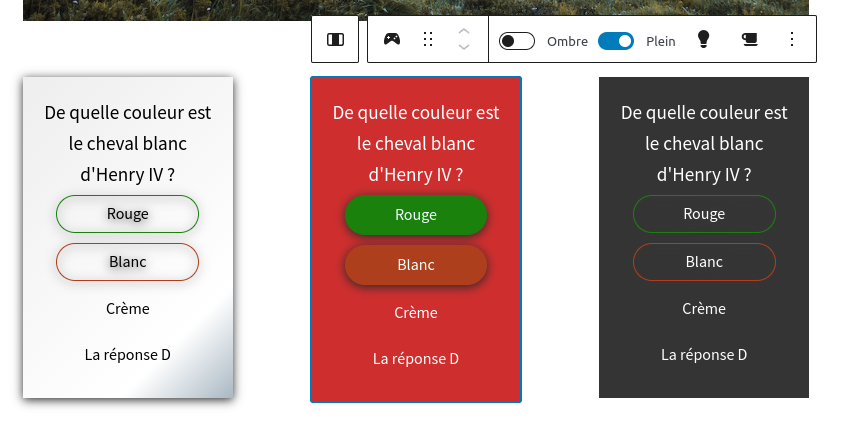
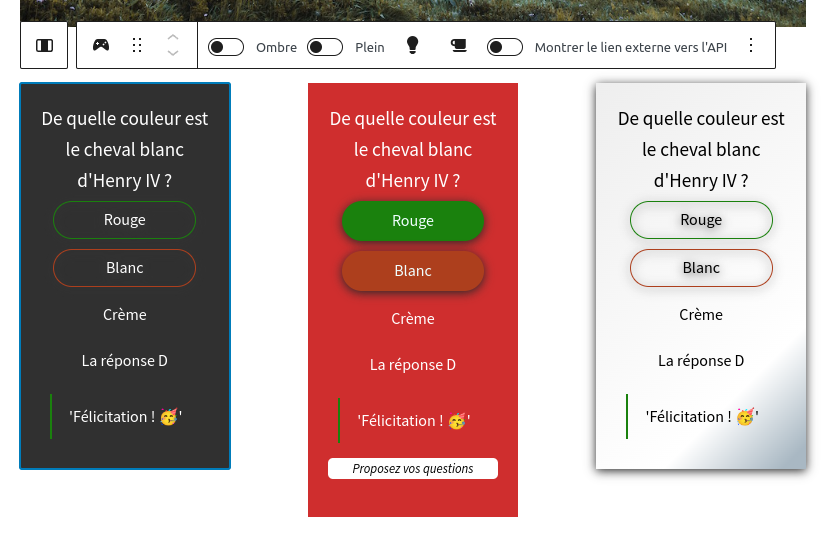
correction for WP validation

diff --git a/build/index.js b/build/index.js
@@ -1,1 +1,1 @@
-!function(){"use strict";var e,t={255:function(){var e=window.wp.blocks,t=window.wp.element,l=(window.wp.i18n,window.wp.blockEditor),i=window.wp.components,n=e=>{let{attributes:l,setAttributes:n}=e;return(0,t.createElement)(i.ToggleControl,{label:"Ombre",checked:l.elevation,onChange:()=>n({elevation:!l.elevation}),className:"menu-icon-simplequizblock"})},c=e=>{let{attributes:l,setAttributes:n}=e;return(0,t.createElement)(i.ToggleControl,{label:"Plein",checked:l.fill,onChange:()=>n({fill:!l.fill}),className:"menu-icon-simplequizblock"})},r=e=>{let{attributes:l,setAttributes:n}=e;return(0,t.createElement)(i.DropdownMenu,{icon:"lightbulb",label:"Choisir une catégorie",className:"menu-icon-simplequizblock"},(e=>{let{onClose:c}=e;return(0,t.createElement)(i.MenuGroup,null,(0,t.createElement)(i.MenuItem,{isSelected:"all"===l.category,icon:"all"===l.category?"yes":null,onClick:()=>{n({category:"all"}),c()}},"Toutes"),(0,t.createElement)(i.MenuItem,{isSelected:"tv_cinema"===l.category,icon:"tv_cinema"===l.category?"yes":null,onClick:()=>{n({category:"tv_cinema"}),c()}},"Tv et Cinema"),(0,t.createElement)(i.MenuItem,{isSelected:"art_litterature"===l.category,icon:"art_litterature"===l.category?"yes":null,onClick:()=>{n({category:"art_litterature"}),c()}},"Art et Litterature"),(0,t.createElement)(i.MenuItem,{isSelected:"actu_politique"===l.category,icon:"actu_politique"===l.category?"yes":null,onClick:()=>{n({category:"actu_politique"}),c()}},"Actu et politique"),(0,t.createElement)(i.MenuItem,{isSelected:"sport"===l.category,icon:"sport"===l.category?"yes":null,onClick:()=>{n({category:"sport"}),c()}},"Sport"),(0,t.createElement)(i.MenuItem,{isSelected:"jeux_videos"===l.category,icon:"jeux_videos"===l.category?"yes":null,onClick:()=>{n({category:"jeux_videos"}),c()}},"Jeux Videos"),(0,t.createElement)(i.MenuItem,{isSelected:"culutre_generale"===l.category,icon:"culutre_generale"===l.category?"yes":null,onClick:()=>{n({category:"culutre_generale"}),c()}},"Culture générale"),(0,t.createElement)(i.MenuItem,{isSelected:"musique"===l.category,icon:"musique"===l.category?"yes":null,onClick:()=>{n({category:"musique"}),c()}},"Musique"))}))},o=e=>{let{attributes:l,setAttributes:n}=e;return(0,t.createElement)(i.DropdownMenu,{icon:"coffee",label:"Choisir une difficulté",className:"menu-icon-simplequizblock"},(e=>{let{onClose:c}=e;return(0,t.createElement)(t.Fragment,null,(0,t.createElement)(i.MenuGroup,null,(0,t.createElement)(i.MenuItem,{isSelected:"all"===l.difficulty,icon:"all"===l.difficulty?"yes":null,onClick:()=>{n({difficulty:"all"}),c()}},"Toutes"),(0,t.createElement)(i.MenuItem,{isSelected:"facile"===l.difficulty,icon:"facile"===l.difficulty?"yes":null,onClick:()=>{n({difficulty:"facile"}),c()}},"Facile"),(0,t.createElement)(i.MenuItem,{isSelected:"normal"===l.difficulty,icon:"normal"===l.difficulty?"yes":null,onClick:()=>{n({difficulty:"normal"}),c()}},"Normal"),(0,t.createElement)(i.MenuItem,{isSelected:"difficile"===l.difficulty,icon:"difficile"===l.difficulty?"yes":null,onClick:()=>{n({difficulty:"difficile"}),c()}},"Difficile")))}))},u=JSON.parse('{"u2":"simplequizblock/simplequizblock"}');(0,e.registerBlockType)(u.u2,{edit:function(e){let{attributes:i,setAttributes:u}=e;return(0,t.createElement)(t.Fragment,null,(0,t.createElement)(l.BlockControls,null,(0,t.createElement)(n,{attributes:i,setAttributes:u}),(0,t.createElement)(c,{attributes:i,setAttributes:u}),(0,t.createElement)(r,{attributes:i,setAttributes:u}),(0,t.createElement)(o,{attributes:i,setAttributes:u})),(0,t.createElement)("div",(0,l.useBlockProps)(),(0,t.createElement)("div",{className:"simplequizblock-container "+(i.elevation?"simplequizblock-shadow":"")},(0,t.createElement)("div",{className:"simplequizblock-question"},"De quelle couleur est le cheval blanc d'Henry IV ?"),(0,t.createElement)("div",{className:"simplequizblock-answers"},(0,t.createElement)("div",{className:"simplequizblock-unique-answer "+(i.fill?"simplequizblock-good-fill":"simplequizblock-good-border")},"Rouge"),(0,t.createElement)("div",{className:"simplequizblock-unique-answer "+(i.fill?"simplequizblock-bad-fill":"simplequizblock-bad-border")},"Blanc"),(0,t.createElement)("div",{className:"simplequizblock-unique-answer"},"Crème"),(0,t.createElement)("div",{className:"simplequizblock-unique-answer"},"La réponse D")))))}})}},l={};function i(e){var n=l[e];if(void 0!==n)return n.exports;var c=l[e]={exports:{}};return t[e](c,c.exports,i),c.exports}i.m=t,e=[],i.O=function(t,l,n,c){if(!l){var r=1/0;for(s=0;s<e.length;s++){l=e[s][0],n=e[s][1],c=e[s][2];for(var o=!0,u=0;u<l.length;u++)(!1&c||r>=c)&&Object.keys(i.O).every((function(e){return i.O[e](l[u])}))?l.splice(u--,1):(o=!1,c<r&&(r=c));if(o){e.splice(s--,1);var a=n();void 0!==a&&(t=a)}}return t}c=c||0;for(var s=e.length;s>0&&e[s-1][2]>c;s--)e[s]=e[s-1];e[s]=[l,n,c]},i.o=function(e,t){return Object.prototype.hasOwnProperty.call(e,t)},function(){var e={826:0,431:0};i.O.j=function(t){return 0===e[t]};var t=function(t,l){var n,c,r=l[0],o=l[1],u=l[2],a=0;if(r.some((function(t){return 0!==e[t]}))){for(n in o)i.o(o,n)&&(i.m[n]=o[n]);if(u)var s=u(i)}for(t&&t(l);a<r.length;a++)c=r[a],i.o(e,c)&&e[c]&&e[c][0](),e[c]=0;return i.O(s)},l=self.webpackChunksimplequizblock=self.webpackChunksimplequizblock||[];l.forEach(t.bind(null,0)),l.push=t.bind(null,l.push.bind(l))}();var n=i.O(void 0,[431],(function(){return i(255)}));n=i.O(n)}();
+!function(){"use strict";var e,t={888:function(){var e=window.wp.blocks,t=window.wp.element,l=(window.wp.i18n,window.wp.blockEditor),i=window.wp.components,n=e=>{let{attributes:l,setAttributes:n}=e;return(0,t.createElement)(i.ToggleControl,{label:"Ombre",checked:l.elevation,onChange:()=>n({elevation:!l.elevation}),className:"menu-icon-simplequizblock"})},c=e=>{let{attributes:l,setAttributes:n}=e;return(0,t.createElement)(i.ToggleControl,{label:"Plein",checked:l.fill,onChange:()=>n({fill:!l.fill}),className:"menu-icon-simplequizblock"})},r=e=>{let{attributes:l,setAttributes:n}=e;return(0,t.createElement)(i.DropdownMenu,{icon:"lightbulb",label:"Choisir une catégorie",className:"menu-icon-simplequizblock"},(e=>{let{onClose:c}=e;return(0,t.createElement)(i.MenuGroup,null,(0,t.createElement)(i.MenuItem,{isSelected:"all"===l.category,icon:"all"===l.category?"yes":null,onClick:()=>{n({category:"all"}),c()}},"Toutes"),(0,t.createElement)(i.MenuItem,{isSelected:"tv_cinema"===l.category,icon:"tv_cinema"===l.category?"yes":null,onClick:()=>{n({category:"tv_cinema"}),c()}},"Tv et Cinema"),(0,t.createElement)(i.MenuItem,{isSelected:"art_litterature"===l.category,icon:"art_litterature"===l.category?"yes":null,onClick:()=>{n({category:"art_litterature"}),c()}},"Art et Litterature"),(0,t.createElement)(i.MenuItem,{isSelected:"actu_politique"===l.category,icon:"actu_politique"===l.category?"yes":null,onClick:()=>{n({category:"actu_politique"}),c()}},"Actu et politique"),(0,t.createElement)(i.MenuItem,{isSelected:"sport"===l.category,icon:"sport"===l.category?"yes":null,onClick:()=>{n({category:"sport"}),c()}},"Sport"),(0,t.createElement)(i.MenuItem,{isSelected:"jeux_videos"===l.category,icon:"jeux_videos"===l.category?"yes":null,onClick:()=>{n({category:"jeux_videos"}),c()}},"Jeux Videos"),(0,t.createElement)(i.MenuItem,{isSelected:"culutre_generale"===l.category,icon:"culutre_generale"===l.category?"yes":null,onClick:()=>{n({category:"culutre_generale"}),c()}},"Culture générale"),(0,t.createElement)(i.MenuItem,{isSelected:"musique"===l.category,icon:"musique"===l.category?"yes":null,onClick:()=>{n({category:"musique"}),c()}},"Musique"))}))},o=e=>{let{attributes:l,setAttributes:n}=e;return(0,t.createElement)(i.DropdownMenu,{icon:"coffee",label:"Choisir une difficulté",className:"menu-icon-simplequizblock"},(e=>{let{onClose:c}=e;return(0,t.createElement)(t.Fragment,null,(0,t.createElement)(i.MenuGroup,null,(0,t.createElement)(i.MenuItem,{isSelected:"all"===l.difficulty,icon:"all"===l.difficulty?"yes":null,onClick:()=>{n({difficulty:"all"}),c()}},"Toutes"),(0,t.createElement)(i.MenuItem,{isSelected:"facile"===l.difficulty,icon:"facile"===l.difficulty?"yes":null,onClick:()=>{n({difficulty:"facile"}),c()}},"Facile"),(0,t.createElement)(i.MenuItem,{isSelected:"normal"===l.difficulty,icon:"normal"===l.difficulty?"yes":null,onClick:()=>{n({difficulty:"normal"}),c()}},"Normal"),(0,t.createElement)(i.MenuItem,{isSelected:"difficile"===l.difficulty,icon:"difficile"===l.difficulty?"yes":null,onClick:()=>{n({difficulty:"difficile"}),c()}},"Difficile")))}))},u=e=>{let{attributes:l,setAttributes:n}=e;return(0,t.createElement)(i.ToggleControl,{label:"Montrer le lien externe vers l'API",checked:l.showLink,onChange:()=>n({showLink:!l.showLink}),className:"menu-icon-simplequizblock"})},a=JSON.parse('{"u2":"simplequizblock/simplequizblock"}');(0,e.registerBlockType)(a.u2,{edit:function(e){let{attributes:i,setAttributes:a}=e;return(0,t.createElement)(t.Fragment,null,(0,t.createElement)(l.BlockControls,null,(0,t.createElement)(n,{attributes:i,setAttributes:a}),(0,t.createElement)(c,{attributes:i,setAttributes:a}),(0,t.createElement)(r,{attributes:i,setAttributes:a}),(0,t.createElement)(o,{attributes:i,setAttributes:a}),(0,t.createElement)(u,{attributes:i,setAttributes:a})),(0,t.createElement)("div",(0,l.useBlockProps)(),(0,t.createElement)("div",{className:"simplequizblock-container "+(i.elevation?"simplequizblock-shadow":"")},(0,t.createElement)("div",{className:"simplequizblock-question"},"De quelle couleur est le cheval blanc d'Henry IV ?"),(0,t.createElement)("div",{className:"simplequizblock-answers"},(0,t.createElement)("div",{className:"simplequizblock-unique-answer "+(i.fill?"simplequizblock-good-fill":"simplequizblock-good-border")},"Rouge"),(0,t.createElement)("div",{className:"simplequizblock-unique-answer "+(i.fill?"simplequizblock-bad-fill":"simplequizblock-bad-border")},"Blanc"),(0,t.createElement)("div",{className:"simplequizblock-unique-answer"},"Crème"),(0,t.createElement)("div",{className:"simplequizblock-unique-answer"},"La réponse D")),(0,t.createElement)("div",{className:"simplequizblock-result"},(0,t.createElement)("div",{className:"simplequizblock-good-answer"},"'Félicitation ! 🥳'"),i.showLink?(0,t.createElement)("div",{className:"simplequizblock-signature"},(0,t.createElement)("p",{class:"simplequizblock-signature-link"},"Proposez vos questions")):null))))}})}},l={};function i(e){var n=l[e];if(void 0!==n)return n.exports;var c=l[e]={exports:{}};return t[e](c,c.exports,i),c.exports}i.m=t,e=[],i.O=function(t,l,n,c){if(!l){var r=1/0;for(s=0;s<e.length;s++){l=e[s][0],n=e[s][1],c=e[s][2];for(var o=!0,u=0;u<l.length;u++)(!1&c||r>=c)&&Object.keys(i.O).every((function(e){return i.O[e](l[u])}))?l.splice(u--,1):(o=!1,c<r&&(r=c));if(o){e.splice(s--,1);var a=n();void 0!==a&&(t=a)}}return t}c=c||0;for(var s=e.length;s>0&&e[s-1][2]>c;s--)e[s]=e[s-1];e[s]=[l,n,c]},i.o=function(e,t){return Object.prototype.hasOwnProperty.call(e,t)},function(){var e={826:0,431:0};i.O.j=function(t){return 0===e[t]};var t=function(t,l){var n,c,r=l[0],o=l[1],u=l[2],a=0;if(r.some((function(t){return 0!==e[t]}))){for(n in o)i.o(o,n)&&(i.m[n]=o[n]);if(u)var s=u(i)}for(t&&t(l);a<r.length;a++)c=r[a],i.o(e,c)&&e[c]&&e[c][0](),e[c]=0;return i.O(s)},l=self.webpackChunksimplequizblock=self.webpackChunksimplequizblock||[];l.forEach(t.bind(null,0)),l.push=t.bind(null,l.push.bind(l))}();var n=i.O(void 0,[431],(function(){return i(888)}));n=i.O(n)}();

diff --git a/build/style-index.css b/build/style-index.css
@@ -1,1 +1,1 @@
-.simplequizblock-container{padding:20px;text-align:center}.simplequizblock-shadow{box-shadow:0 2px 10px #292929}.simplequizblock-question{font-size:1.2em}.simplequizblock-answers{display:flex;flex-wrap:wrap;justify-content:space-around;margin:auto;width:90%}.simplequizblock-answers .simplequizblock-unique-answer{border-radius:25px;cursor:pointer;font-size:1em;margin:5px;max-width:100%;padding:5px 15px;width:200px}.simplequizblock-answers .simplequizblock-good-border{border:1px solid #1a810d;filter:drop-shadow(0 2px 5px rgb(59,59,59))}.simplequizblock-answers .simplequizblock-bad-border{border:1px solid #ad3f1d;filter:drop-shadow(0 2px 5px rgb(59,59,59))}.simplequizblock-answers .simplequizblock-good-fill{background-color:#1a810d;border:2px solid #1a810d;box-shadow:0 2px 10px #292929;color:azure}.simplequizblock-answers .simplequizblock-bad-fill{background-color:#ad3f1d;border:2px solid #ad3f1d;box-shadow:0 2px 10px #292929;color:azure}.simplequizblock-result .simplequizblock-bad-answer,.simplequizblock-result .simplequizblock-good-answer{margin:10px;padding:10px}.simplequizblock-result .simplequizblock-good-answer{border-left:2px solid #1a810d}.simplequizblock-result .simplequizblock-bad-answer{border-left:2px solid #ad3f1d}.simplequizblock-result .simplequizblock-signature{background-color:#fff;font-size:.8em;font-style:italic;margin-top:15px}.simplequizblock-result .simplequizblock-signature .simplequizblock-signature-link{color:#000;text-decoration:none}
+.simplequizblock-container{padding:20px;text-align:center}.simplequizblock-shadow{box-shadow:0 2px 10px #292929}.simplequizblock-question{font-size:1.2em}.simplequizblock-answers{display:flex;flex-wrap:wrap;justify-content:space-around;margin:auto;width:90%}.simplequizblock-answers .simplequizblock-unique-answer{border-radius:25px;cursor:pointer;font-size:1em;margin:5px;max-width:100%;padding:5px 15px;width:200px}.simplequizblock-answers .simplequizblock-good-border{border:1px solid #1a810d;filter:drop-shadow(0 2px 5px rgb(59,59,59))}.simplequizblock-answers .simplequizblock-bad-border{border:1px solid #ad3f1d;filter:drop-shadow(0 2px 5px rgb(59,59,59))}.simplequizblock-answers .simplequizblock-good-fill{background-color:#1a810d;border:2px solid #1a810d;box-shadow:0 2px 10px #292929;color:azure}.simplequizblock-answers .simplequizblock-bad-fill{background-color:#ad3f1d;border:2px solid #ad3f1d;box-shadow:0 2px 10px #292929;color:azure}.simplequizblock-result .simplequizblock-bad-answer,.simplequizblock-result .simplequizblock-good-answer{margin:10px;padding:10px}.simplequizblock-result .simplequizblock-good-answer{border-left:2px solid #1a810d}.simplequizblock-result .simplequizblock-bad-answer{border-left:2px solid #ad3f1d}.simplequizblock-result .simplequizblock-signature{background-color:#fff;border-radius:5px;font-size:.8em;font-style:italic;margin-top:15px}.simplequizblock-result .simplequizblock-signature .simplequizblock-signature-link{color:#000;text-decoration:none}

diff --git a/src/edit.js b/src/edit.js
@@ -39,32 +39,44 @@ import ElevationToggle from './components/ElevationToggle';
 import FillAnswerToggle from './components/FillAnswerToggle';
 import CategoryDropDown from './components/CategoryDropDown';
 import DifficultyDropDown from './components/DifficultyDropDown';
+import ShowLinkToggle from './components/ShowLinkToggle';
 
 export default function Edit({ attributes, setAttributes }) {
 
 	return (
 		<>
-		<BlockControls>
+			<BlockControls>
 				<ElevationToggle attributes={attributes} setAttributes={setAttributes} />
 				<FillAnswerToggle attributes={attributes} setAttributes={setAttributes} />
 				<CategoryDropDown attributes={attributes} setAttributes={setAttributes} />
 				<DifficultyDropDown attributes={attributes} setAttributes={setAttributes} />
+				<ShowLinkToggle attributes={attributes} setAttributes={setAttributes} />
+
 			</BlockControls>
 
 			<div {...useBlockProps()}>
-					<div className={"simplequizblock-container " + (attributes.elevation ? "simplequizblock-shadow" : "")}>
-						<div className="simplequizblock-question">
-							De quelle couleur est le cheval blanc d'Henry IV ?
-						</div>
-						<div className="simplequizblock-answers">
-
-							<div className={"simplequizblock-unique-answer " + (attributes.fill ? "simplequizblock-good-fill" : "simplequizblock-good-border")}>Rouge</div>
-							<div className={"simplequizblock-unique-answer " + (attributes.fill ? "simplequizblock-bad-fill" : "simplequizblock-bad-border")}>Blanc</div>
-							<div className="simplequizblock-unique-answer">Crème</div>
-							<div className="simplequizblock-unique-answer">La réponse D</div>
-
-						</div>
+				<div className={"simplequizblock-container " + (attributes.elevation ? "simplequizblock-shadow" : "")}>
+					<div className="simplequizblock-question">
+						De quelle couleur est le cheval blanc d'Henry IV ?
 					</div>
+					<div className="simplequizblock-answers">
+
+						<div className={"simplequizblock-unique-answer " + (attributes.fill ? "simplequizblock-good-fill" : "simplequizblock-good-border")}>Rouge</div>
+						<div className={"simplequizblock-unique-answer " + (attributes.fill ? "simplequizblock-bad-fill" : "simplequizblock-bad-border")}>Blanc</div>
+						<div className="simplequizblock-unique-answer">Crème</div>
+						<div className="simplequizblock-unique-answer">La réponse D</div>
+
+					</div>
+					<div className="simplequizblock-result">
+						<div className='simplequizblock-good-answer'>
+							'Félicitation ! 🥳'
+						</div>
+						{attributes.showLink ?
+							<div className="simplequizblock-signature"><p class="simplequizblock-signature-link">Proposez vos questions</p></div>
+							: null
+						}
+					</div>
+				</div>
 			</div>
 		</>
 	);

diff --git a/src/components/ShowLinkToggle.js b/src/components/ShowLinkToggle.js
@@ -1,0 +1,17 @@
+import {
+	ToggleControl
+} from '@wordpress/components'
+
+
+const ShowLinkToggle = ({attributes, setAttributes}) => {
+  return (
+    <ToggleControl
+    label="Montrer le lien externe vers l'API"
+    checked={attributes.showLink}
+    onChange={()=> setAttributes({showLink: !attributes.showLink})}
+    className='menu-icon-simplequizblock'
+    />
+  )
+}
+
+export default ShowLinkToggle

diff --git a/src/style.scss b/src/style.scss
@@ -71,6 +71,7 @@
 		font-size: 0.8em;
 		margin-top: 15px;
 		background-color: white;
+		border-radius: 5px;
 		.simplequizblock-signature-link{
 			color: black;
 			text-decoration: none;

diff --git a/public/show_quiz_response.php b/public/show_quiz_response.php
@@ -9,19 +9,21 @@
  * 
  */
 
-function show_quiz_response($attributes, $url)
+function simplequizblock_show_quiz_response($attributes, $url)
 {
 
   // Construct and perform the API request
   $category = $attributes['category'] === 'all' ? '' : '&category=' . $attributes['category'];
   $difficulty = $attributes['difficulty'] === 'all' ? '' : '&difficulty=' . $attributes['difficulty'];
-  $response = file_get_contents($url . $category . $difficulty);
+  $response = wp_remote_get($url . $category . $difficulty);
+  $response = $response['body'];
   $response = json_decode($response);
 
   // if there isn't any corresponding quiz, just selected a random quiz from all the DB
   if($response->count == 0){
-    $response = file_get_contents($url);
-    $response = json_decode($response);
+  $response = wp_remote_get($url);
+  $response = $response['body'];
+  $response = json_decode($response);
   }
 
   // Get data to display
@@ -38,27 +40,28 @@ function show_quiz_response($attributes, $url)
 
 ?>
     <!-- Pass the Unique ID through an hidden DIV, and attribute this ID to the main div -->
-    <div class="simplequizblock-random-id" hidden><?= $randomId ?></div>
-  <div class="simplequizblock-container <?= $attributes['elevation'] ? "simplequizblock-shadow" : ""?>" id="<?= $randomId ?>">
+    <?php echo $attributes['showLink'] ? true : false; ?>
+    <div class="simplequizblock-random-id" hidden><?php echo esc_html($randomId); ?></div>
+  <div class="simplequizblock-container <?php echo $attributes['elevation'] ? esc_attr("simplequizblock-shadow") : null;?>" id="<?php echo esc_attr($randomId); ?>">
     <div class="simplequizblock-question">
-      <?= $question ?>
+      <?php echo esc_html($question); ?>
     </div>
     <div class="simplequizblock-answers">
       <!-- Display the answers' array -->
       <?php
       for ($i = 0; $i < sizeof($allAnswers); $i++) {
       ?>
-        <div class="simplequizblock-unique-answer"><?= $allAnswers[$i] ?></div>
+        <div class="simplequizblock-unique-answer"><?php echo esc_html($allAnswers[$i]); ?></div>
       <?php
       }
       ?>
     </div>
     <div class="simplequizblock-result" hidden>
-      <div class="simplequizblock-signature"><a class="simplequizblock-signature-link" href="https://quizzapi.jomoreschi.fr/" target="_blank">Proposez vos questions</a></div>
+      <div class="simplequizblock-signature"  <?php echo $attributes['showLink'] ? null : esc_attr("hidden"); ?>><a class="simplequizblock-signature-link" href="https://quizzapi.jomoreschi.fr/" target="_blank">Proposez vos questions</a></div>
     </div>
     <!-- Pass the good Answer through an Hidden div -->
-    <div class="simplequizblock-good" hidden><?= $answer ?></div>
-    <div class="simplequizblock-fill" hidden><?= $attributes['fill'] ?></div>
+    <div class="simplequizblock-good" hidden><?php echo esc_html($answer); ?></div>
+    <div class="simplequizblock-fill" hidden><?php echo esc_html($attributes['fill']); ?></div>
 
   </div>
 <?php

diff --git a/simple-quiz-block.php b/simple-quiz-block.php
@@ -24,17 +24,17 @@
 require_once __DIR__.'/public/show_quiz_response.php';
 
 
-function create_block_training_block_init() {
+function simplequizblock_create_block_init() {
 	register_block_type( __DIR__ . '/build' );
 }
-add_action( 'init', 'create_block_training_block_init' );
+add_action( 'init', 'simplequizblock_create_block_init' );
 
 /**
  * JS script import for interactive display in the front end
  */
 function simplequizblock_js_script()
 {
-	wp_enqueue_script('simplequizblock-interact', plugins_url('/public/js/simplequizblock-interact.js', __FILE__), array(), '1.0.0', true);
+	wp_enqueue_script('simplequizblock-interact', plugins_url('/public/js/simplequizblock-interact.js', __FILE__), array(), '0.1.0', true);
 }
 
 add_action('wp_enqueue_scripts','simplequizblock_js_script');

diff --git a/build/index.asset.php b/build/index.asset.php
@@ -1,1 +1,1 @@
-<?php return array('dependencies' => array('wp-block-editor', 'wp-blocks', 'wp-components', 'wp-element', 'wp-i18n'), 'version' => 'ef103a2b31887a6f6bb9');
+<?php return array('dependencies' => array('wp-block-editor', 'wp-blocks', 'wp-components', 'wp-element', 'wp-i18n'), 'version' => '41bf5123103704e441a9');

diff --git a/build/render.php b/build/render.php
@@ -1,3 +1,3 @@
 <div <?php echo get_block_wrapper_attributes(); ?>>
-	<?php show_quiz_response($attributes, 'https://quizzapi.jomoreschi.fr/api/v1/quiz?limit=1'); ?>
+	<?php simplequizblock_show_quiz_response($attributes, 'https://quizzapi.jomoreschi.fr/api/v1/quiz?limit=1'); ?>
 </div>

diff --git a/src/render.php b/src/render.php
@@ -1,3 +1,3 @@
 <div <?php echo get_block_wrapper_attributes(); ?>>
-	<?php show_quiz_response($attributes, 'https://quizzapi.jomoreschi.fr/api/v1/quiz?limit=1'); ?>
+	<?php simplequizblock_show_quiz_response($attributes, 'https://quizzapi.jomoreschi.fr/api/v1/quiz?limit=1'); ?>
 </div>
